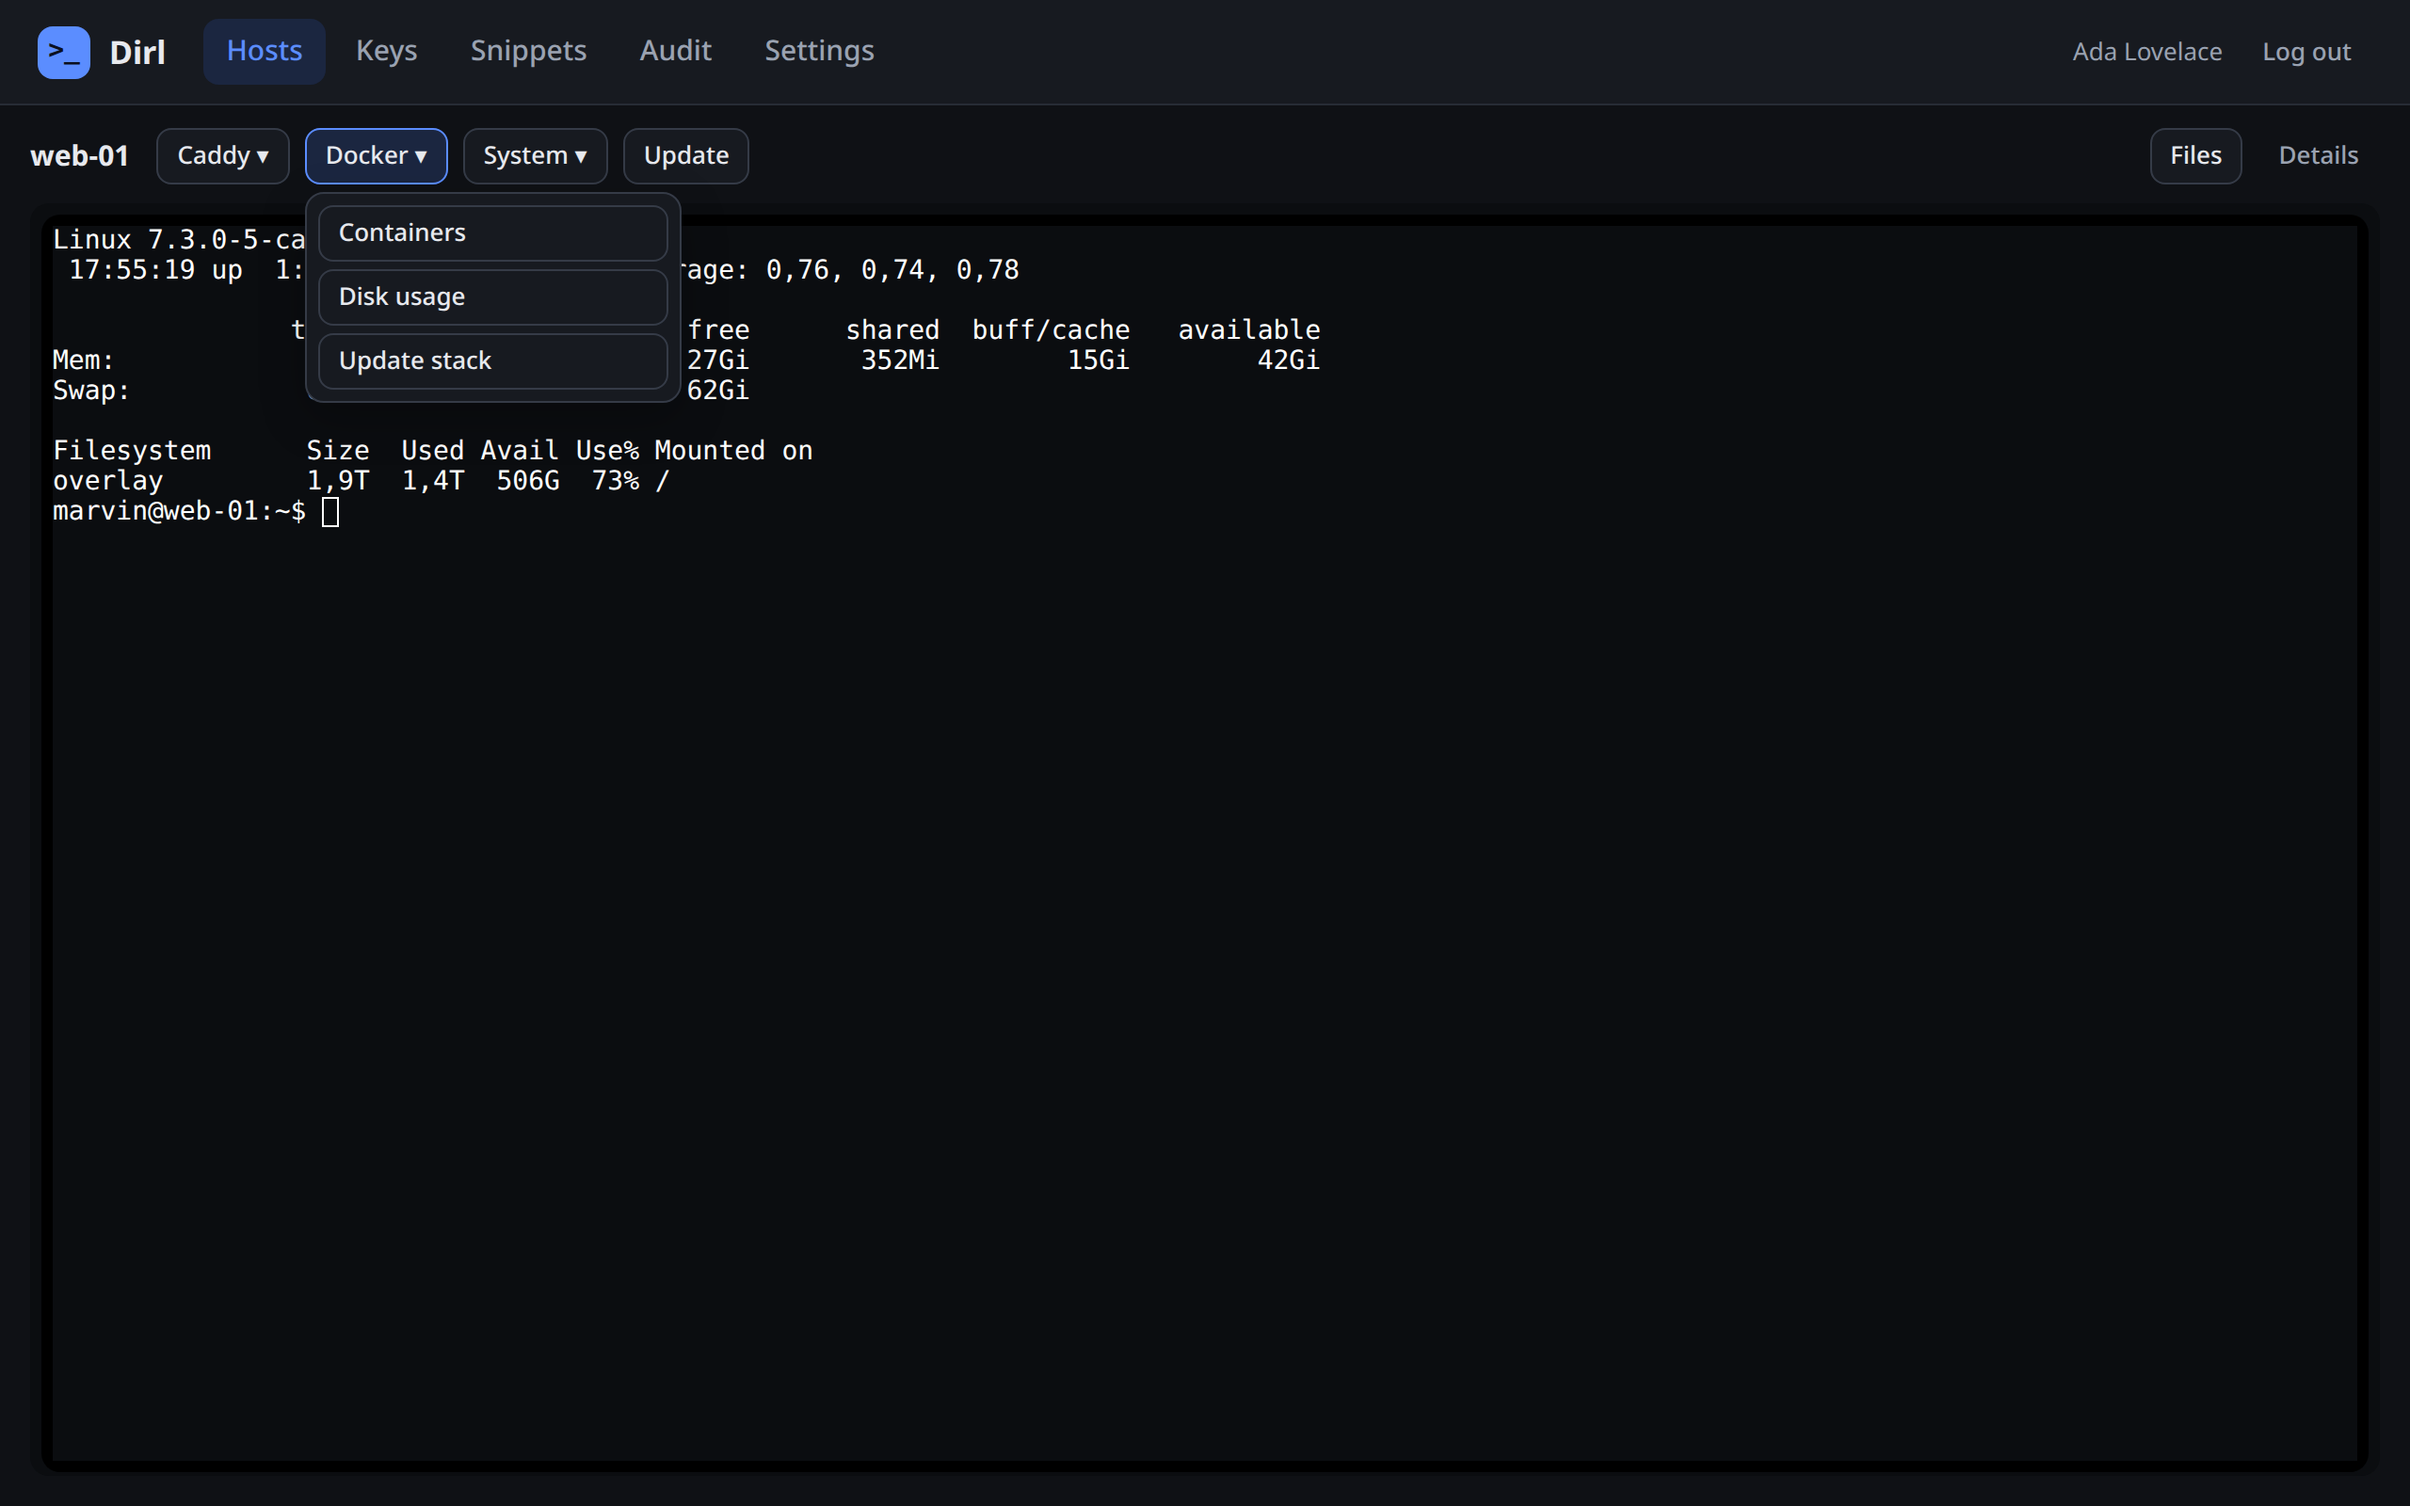
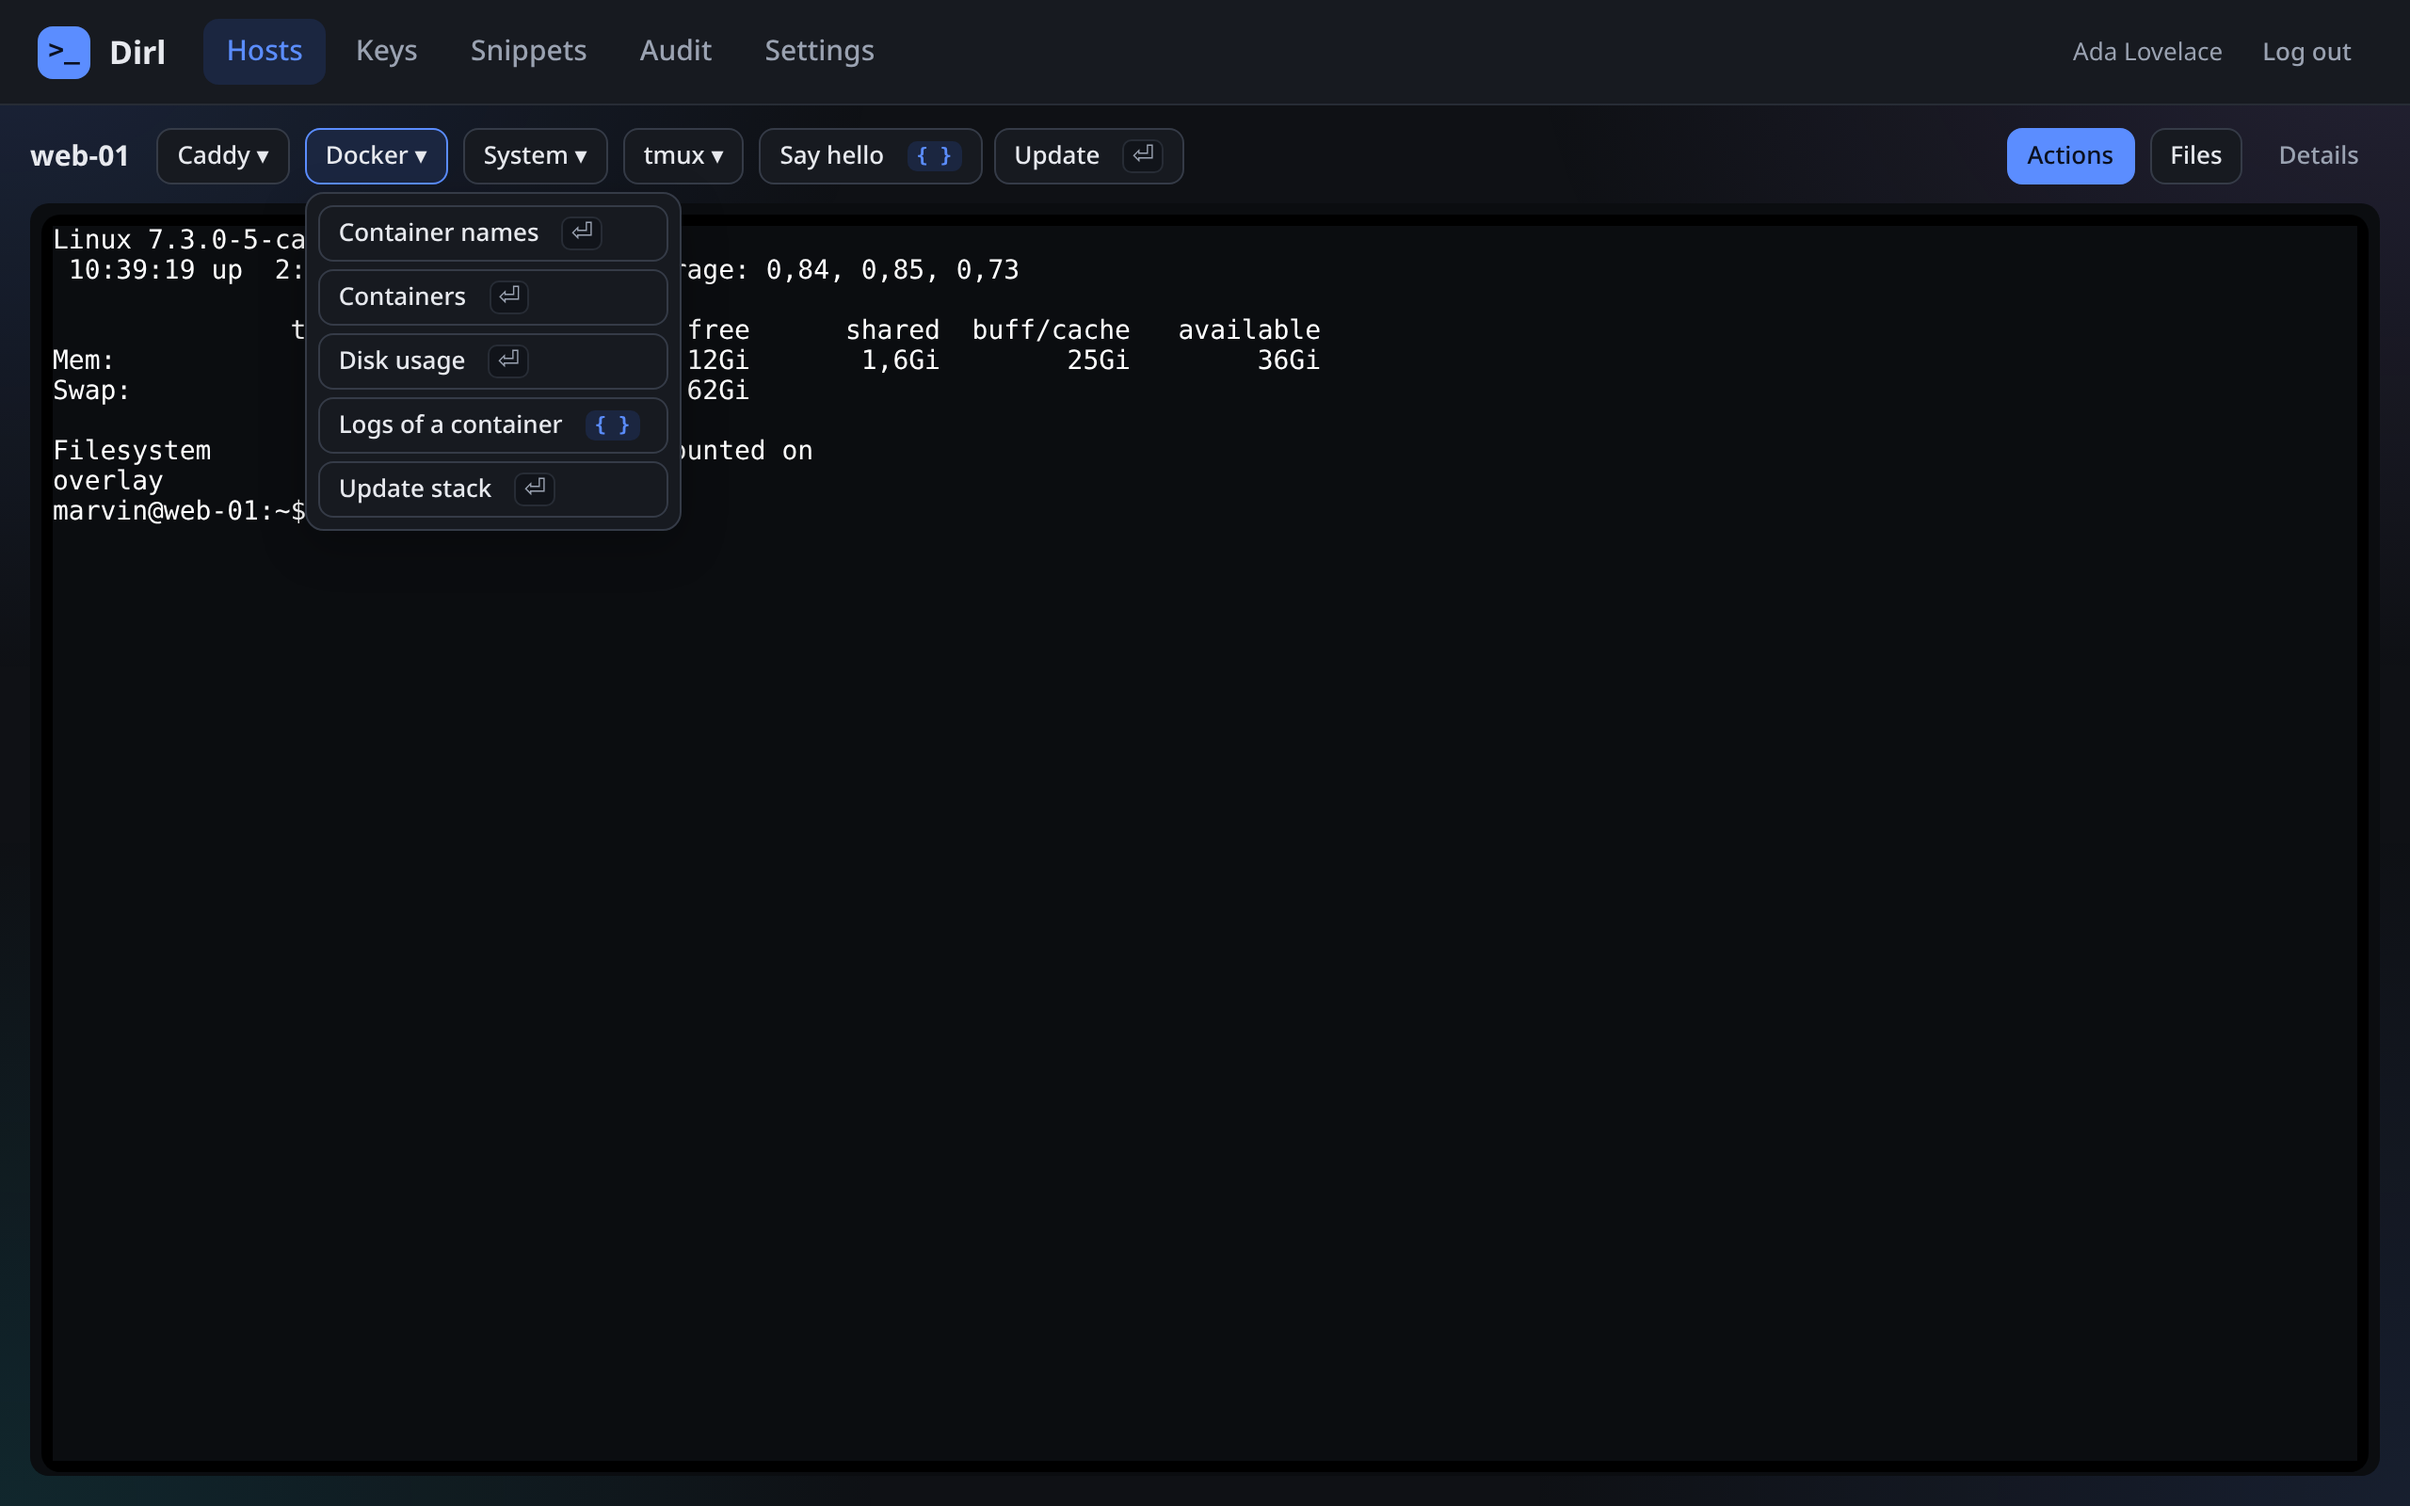
Show snippet variables and the Actions mode in the README
New screenshots from the demo instance: the terminal with the marked snippet
buttons, the form of a snippet with variables and the Actions mode. The
feature list names variables and the JSON import and export.

diff --git a/README.md b/README.md
@@ -15,10 +15,13 @@ to review alone, managed entirely in the UI.
 | Terminal | Host details |
 |---|---|
 | ![Terminal](docs/images/terminal.png) | ![Host details](docs/images/host.png) |
+| **Snippet with variables** | **Actions mode** |
+| ![Snippet with variables](docs/images/variables.png) | ![Actions mode](docs/images/actions.png) |
 
 ## Features
 
-- Browser terminal (xterm.js) with resize and snippets
+- Browser terminal (xterm.js) with resize and snippets: folders, variables like `{{Container}}` asked for before
+  sending, import and export as JSON
 - Actions mode for phones: snippets, Enter and Cancel instead of the keyboard, tmux snippets for long jobs
 - Installable as an app, without a service worker or any cache
 - SFTP file manager with upload, rename and download
